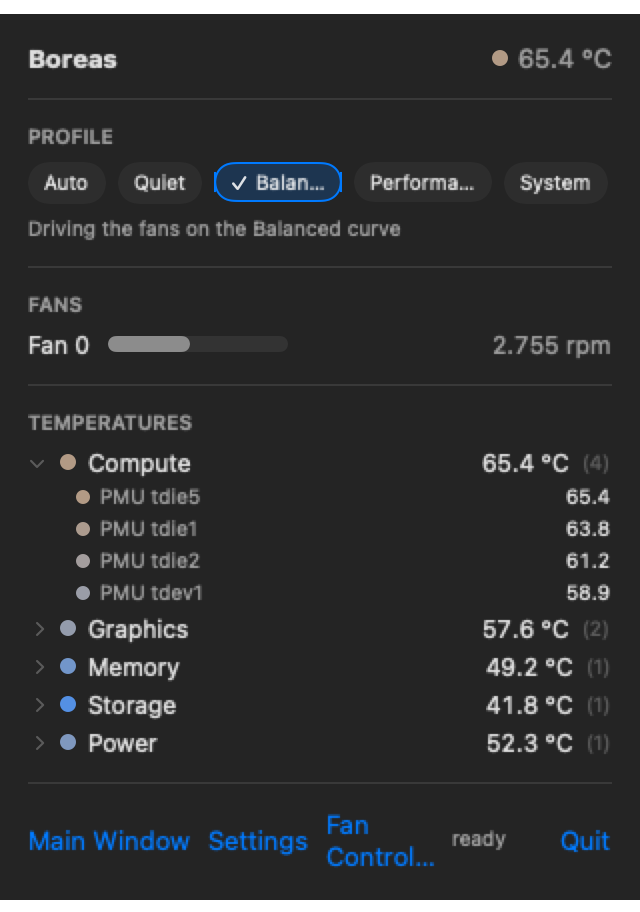
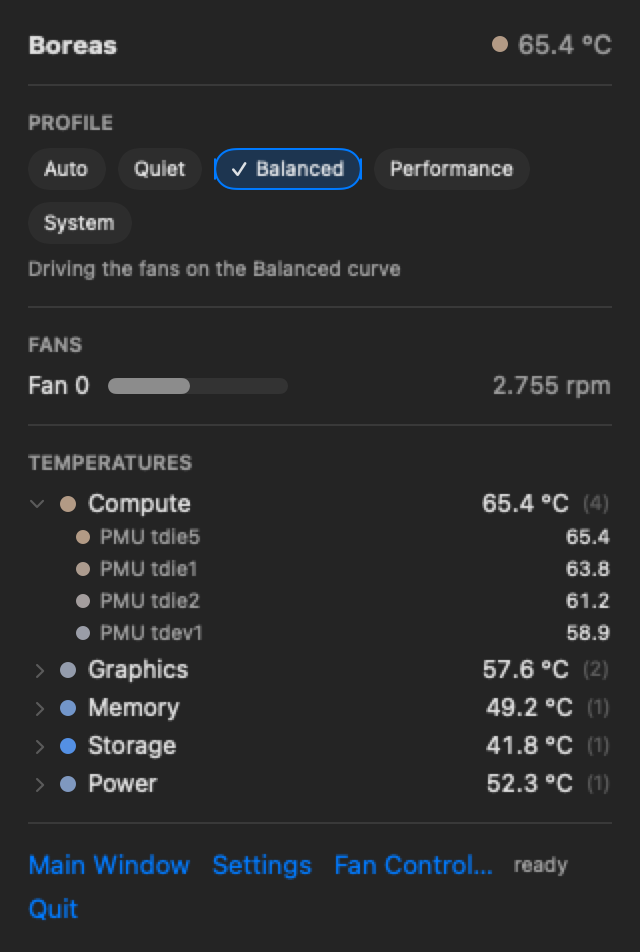
fix(ui): the panel wraps its chips instead of truncating them (P8.10)
Five profile chips do not fit across the panel's 292 pt of content width,
so an HStack resolved the overflow the one way this project forbids:
"Balan...", "Performa...", in English, before any of the longer languages
got a turn. The rule states itself absolutely in localization.md -
"Except for the menu bar item, overflow is never solved by truncation" -
and the panel is not the menu bar item, it is the window under it.

The remedy was in the rule's own sentence: labels grow with their content
and WRAP when needed. A new FlowLayout gives the picker a second line.
Widening the panel was rejected because Russian runs 30-50% longer and
would break at the new width; a dropdown would cost the one-click
switching the picker exists for.

The footer got the same treatment for a related but different defect: it
was not truncating at all - the ellipsis in "Fan Control..." is the macOS
convention for "opens a dialog" - it was breaking the phrase across two
lines mid-label. Quit lost its right-hand Spacer(), which a flow layout
cannot honour.

make layout now measures the chips against MenuBarPanel.contentWidth
rather than a copied literal. It would not have caught the original
defect, because that failure mode is designed out rather than detected; it
catches the one that survives, a single chip wider than its line.

The finding worth keeping: a derived inventory is not a complete one.
make layout builds every entry from the view's own declaration so nothing
[…]

diff --git a/App/Sources/Design/FlowLayout.swift b/App/Sources/Design/FlowLayout.swift
@@ -1,0 +1,82 @@
+import SwiftUI
+
+/// Lays subviews out in a row, wrapping to the next line when the next one
+/// would not fit (P8.10).
+///
+/// **Why this exists.** The menu bar panel's profile picker was an `HStack` of
+/// five chips inside a 320 pt panel, and they did not fit: SwiftUI resolved the
+/// overflow by truncating the labels, so the shipped panel read `Balan…` and
+/// `Performa…` in English and worse in the longer languages. That contradicts
+/// the rule this project states absolutely in
+/// `docs/development/localization.md` — *"Except for the menu bar item,
+/// overflow is never solved by truncation"* — and the panel is not the menu bar
+/// item, it is the window under it.
+///
+/// The rule's own sentence names the remedy: labels "grow with their content
+/// and **wrap** when needed". Widening the panel would only move the failure to
+/// the next language, since Russian runs 30–50% longer than English; a dropdown
+/// would cost the one-click switching the picker exists for.
+///
+/// A subview wider than the whole line still cannot fit, and this layout does
+/// not pretend otherwise — it gives it a line of its own and lets it be as wide
+/// as it is. `--layout-drill` is what asserts that no chip ever gets there.
+struct FlowLayout: Layout {
+
+    var spacing: CGFloat = 6
+    var lineSpacing: CGFloat = 6
+
+    func sizeThatFits(
+        proposal: ProposedViewSize, subviews: Subviews, cache: inout Void
+    ) -> CGSize {
+        let limit = proposal.width ?? .infinity
+        let lines = arrange(subviews: subviews, limit: limit)
+        let width = lines.map(\.width).max() ?? 0
+        let height =
+            lines.map(\.height).reduce(0, +)
+            + lineSpacing * CGFloat(max(0, lines.count - 1))
+        return CGSize(width: min(width, limit == .infinity ? width : limit), height: height)
+    }
+
+    func placeSubviews(
+        in bounds: CGRect, proposal: ProposedViewSize, subviews: Subviews, cache: inout Void
+    ) {
+        let lines = arrange(subviews: subviews, limit: bounds.width)
+        var top = bounds.minY
+        for line in lines {
+            var leading = bounds.minX
+            for index in line.indices {
+                let size = subviews[index].sizeThatFits(.unspecified)
+                subviews[index].place(
+                    at: CGPoint(x: leading, y: top + (line.height - size.height) / 2),
+                    proposal: ProposedViewSize(size))
+                leading += size.width + spacing
+            }
+            top += line.height + lineSpacing
+        }
+    }
+
+    private struct Line {
+        var indices: [Int] = []
+        var width: CGFloat = 0
+        var height: CGFloat = 0
+    }
+
+    private func arrange(subviews: Subviews, limit: CGFloat) -> [Line] {
+        var lines: [Line] = []
+        var current = Line()
+        for index in subviews.indices {
+            let size = subviews[index].sizeThatFits(.unspecified)
+            let needed = current.indices.isEmpty ? size.width : current.width + spacing + size.width
+            if !current.indices.isEmpty && needed > limit {
+                lines.append(current)
+                current = Line()
+            }
+            current.width =
+                current.indices.isEmpty ? size.width : current.width + spacing + size.width
+            current.height = max(current.height, size.height)
+            current.indices.append(index)
+        }
+        if !current.indices.isEmpty { lines.append(current) }
+        return lines
+    }
+}

diff --git a/App/Sources/Helper/LayoutDrill.swift b/App/Sources/Helper/LayoutDrill.swift
@@ -161,6 +161,9 @@ enum LayoutDrill {
         // than being guessed — P6.12 measured these at 10 pt and 13 pt.
         let caption = NSFont.systemFont(ofSize: NSFont.smallSystemFontSize, weight: .semibold)
         let callout = NSFont.preferredFont(forTextStyle: .body)
+        // The chips declare `.font(.caption)` — regular, not the semibold
+        // the table headers use.
+        let chipFont = NSFont.systemFont(ofSize: NSFont.smallSystemFontSize)
 
         var containers: [Container] = []
 
@@ -180,6 +183,33 @@ enum LayoutDrill {
                 strings: SensorGroup.allCases.map { localised($0.localizationKey, in: bundle) },
                 available: SensorTable.width(of: .group),
                 font: callout))
+
+        // The menu bar panel's profile chips (P8.10).
+        //
+        // Not a fixed-width container in the sense above — the chips wrap now,
+        // so a row can never clip. What *can* still clip is a single chip whose
+        // own label is wider than the line it gets, and that is what this
+        // measures: every profile name plus the padding the chip draws around
+        // it, against the panel's real content width.
+        //
+        // This is the check whose absence let the defect ship. `make layout`
+        // was green the whole time the panel was truncating, because its
+        // inventory was the two tables and nothing else.
+        let chipStrings =
+            [
+                "panel.profile.automatic", "profile.quiet", "profile.balanced",
+                "profile.performance", "profile.system",
+            ]
+            .map { localised($0, in: bundle) }
+        containers.append(
+            Container(
+                place: "menu bar panel profile chip",
+                strings: chipStrings,
+                // The chip's own horizontal padding (8 + 8) and the checkmark
+                // it shows when selected (8 pt glyph + 3 pt spacing) come out
+                // of the line before the label does.
+                available: MenuBarPanel.contentWidth - 16 - 11,
+                font: chipFont))
 
         // The numeric curve table's two columns (P6.07).
         containers.append(

diff --git a/App/Sources/MenuBar/MenuBarPanel.swift b/App/Sources/MenuBar/MenuBarPanel.swift
@@ -62,9 +62,18 @@ struct MenuBarPanel: View {
             Divider()
             footer
         }
-        .padding(14)
-        .frame(width: 320)
+        .padding(Self.padding)
+        .frame(width: Self.width)
     }
+
+    /// The panel's fixed geometry, exposed so `--layout-drill` measures the
+    /// real numbers instead of a second copy that could drift (P8.10) — the
+    /// same reason `SensorTable.width(of:)` is not a literal in the drill.
+    static let width: CGFloat = 320
+    static let padding: CGFloat = 14
+
+    /// What is actually available to a row inside the panel.
+    static var contentWidth: CGFloat { width - padding * 2 }
 
     private var header: some View {
         HStack {
@@ -94,7 +103,16 @@ struct MenuBarPanel: View {
     }
 
     private var footer: some View {
-        HStack {
+        // Wrapping, for the same reason the profile picker does (P8.10). Four
+        // entries plus a status word do not fit across 292 pt, and an `HStack`
+        // broke "Fan Control…" across two lines mid-phrase. Wrapping moves the
+        // whole button to the next line instead of splitting its label.
+        //
+        // `Spacer()` cannot survive that — a flow layout has no single row to
+        // push against — so `Quit` is simply the last entry rather than being
+        // pinned right. A footer that reads left to right in one order is a
+        // fair trade for one that never breaks a word in half.
+        FlowLayout(spacing: 10, lineSpacing: 6) {
             Button {
                 openWindow(id: MainWindow.windowID)
                 // An LSUIElement app is never frontmost on its own; without
@@ -154,8 +172,6 @@ struct MenuBarPanel: View {
                         .foregroundStyle(.secondary)
                 }
             }
-
-            Spacer()
 
             Button {
                 NSApplication.shared.terminate(nil)

diff --git a/App/Sources/MenuBar/PanelSections.swift b/App/Sources/MenuBar/PanelSections.swift
@@ -33,7 +33,11 @@ struct ProfilePickerSection: View {
                 )
             )
 
-            HStack(spacing: 6) {
+            // Wrapping, not a row (P8.10). Five chips do not fit across 292 pt
+            // of panel, and an `HStack` resolved that by truncating the labels
+            // to `Balan…` and `Performa…` — in English, before any of the
+            // longer languages got a turn.
+            FlowLayout(spacing: 6, lineSpacing: 6) {
                 // "Automatic" first, because it is the state that lets the
                 // triggers decide — and without it a manual choice would
                 // be a permanent veto on every one of them (P6.14).

diff --git a/TODO.md b/TODO.md
@@ -383,7 +383,7 @@ up by it.
 - [ ] **P8.03 — DMG build.** SHA-256 published. ⛔ M03
 - [ ] **P8.04 — CI release job.** Triggered by a tag. ⛔ M03 M04
 - [x] **P8.05 — Product `README.md` (English).** Icon source ready: `Design/icon/`. Per `docs/release/readme-spec.md`; **an honest "Tested hardware" section**.
-- [ ] **P8.10 — The menu bar panel truncates profile names with an ellipsis.** Found in P8.05 while rendering the README screenshots. The panel is **320 pt** wide and the profile picker holds five chips — Auto, Quiet, Balanced, Performance, System — which do not fit: in English they render as `Balan…` and `Performa…`, and the footer's fan-control entry wraps and truncates too. This contradicts a rule the project states absolutely in [`docs/development/localization.md`](docs/development/localization.md): *"Except for the menu bar item, overflow is never solved by truncation."* The panel is not the menu bar item; it is the window below it. **`make layout` cannot see this** — its inventory is the sensor table's and the curve table's fixed-width columns, derived from those views' own declarations, and the picker is not among them. Confirmed to be the width and not the language: the same picker in the main window's control tab, which is wide, shows every name in full. Fix is a layout question (wrap the chips, use a menu, or shorten the set) plus extending the layout drill's inventory so the picker is measured; the README screenshot ships showing the truncation until then, because a staged screenshot would be the dishonest option.
+- [x] **P8.10 — The menu bar panel truncates profile names with an ellipsis.** Found in P8.05 while rendering the README screenshots. The panel is **320 pt** wide and the profile picker holds five chips — Auto, Quiet, Balanced, Performance, System — which do not fit: in English they render as `Balan…` and `Performa…`, and the footer's fan-control entry wraps and truncates too. This contradicts a rule the project states absolutely in [`docs/development/localization.md`](docs/development/localization.md): *"Except for the menu bar item, overflow is never solved by truncation."* The panel is not the menu bar item; it is the window below it. **`make layout` cannot see this** — its inventory is the sensor table's and the curve table's fixed-width columns, derived from those views' own declarations, and the picker is not among them. Confirmed to be the width and not the language: the same picker in the main window's control tab, which is wide, shows every name in full. Fix is a layout question (wrap the chips, use a menu, or shorten the set) plus extending the layout drill's inventory so the picker is measured; the README screenshot ships showing the truncation until then, because a staged screenshot would be the dishonest option.
 - [ ] **P8.06 — README translations.** `tr`, `ru`, `es`, `zh-Hans` + a "may lag behind" note.
 - [ ] **P8.07 — Discoverability setup.** Repository description, topics, Homebrew cask `desc`, README FAQ.
 - [ ] **P8.08 — Homebrew cask.** Submission (depends on M05). ⛔ M05
@@ -565,6 +565,8 @@ Append-only. History is **never rewritten**; a wrong entry is corrected by a new
 | 2026-08-10 | setup | P7.13 | DONE | **H6 could only see one of the five languages, and had not been able to see the other three since the day they shipped.** `gate-language` scanned for Turkish letters and Turkish function words and nothing else, so from P7.06 onward Russian and Chinese could appear anywhere in the repository and the gate stayed green. The gap surfaced in P7.07 as something smaller: `TRANSLATORS.md` sat in the gate's exclusion regex while being **invisible to it either way** — an exemption that did nothing, granted for a risk the gate could not detect. **The decision this needed was not technical.** Adding the missing detection turns the gate red on six files that are not violations: three Swift comments recording the label widths `make layout` measured, the Run Log naming strings a render exposed, the localisation document showing a plural form, and the P7.14 tests whose entire subject is that a translated status line changes nothing about a parsed token. An [ADR 0021 addendum](docs/architecture/adr/0021-english-only-repository.md) answers it: **quoting a translation as evidence is not an exception to H6, it is what H6 already meant** — the invariant forbids *working in* another language, and a comment in English naming the Russian string that overflowed a column is working in English *about* Russian. Deleting the string would delete the evidence; a defect recorded without the text that showed it is not a record. **The mechanism is the repository's own proven one:** a file declares its own exemption with a `gate-language:quotes-translations` marker and a reason, and the count of skipped files is printed on **every** run — the `gate-names:policy-doc` shape, chosen for the reason `LEGAL.md` §5.1 already gives, that a hard-coded list goes stale while a declaration is visible in review. Written in Python because a `grep` bracket range is matched **byte-wise** under the C locale and swallows the em dash this repository uses on nearly every line; the first attempt in P7.07 called all 276 files violations. | **Proven three ways by deliberate violation**: Russian prose planted in `MonitorModel.swift` is caught and named with its file, line and text; Chinese prose is caught; and the **same Chinese text with the marker passes while the exempt count rises 7 → 8**, so the exemption is visible rather than silent. All three reverted · the new rule was run against the repository first and named exactly the six evidence files, no false positives beyond them · `make check` 11/11 · `make test` 331/331 · `make lint` PASS · `docs-check` PASS with the new ADR addendum | `scripts/gates/check-language.py` (new) · `scripts/gates/check-language.sh` · `docs/architecture/adr/0021-english-only-repository.md` (P7.13 addendum) · `docs/development/localization.md` (coverage table) · `BOOT.md` · six files given the marker · `TODO.md` | **Spanish is not covered and cannot be.** It shares the Latin alphabet, so no character check can tell Spanish prose from English — H6 now covers four of five languages, and the fifth is stated as uncovered in the ADR, in `localization.md` and here rather than left to be discovered a third time. **Turkish coverage is still partial**: six letters and nine function words, so a Turkish sentence avoiding all of them passes. **A marker exempts a whole file, not a passage** — the same coarseness `gate-names:policy-doc` accepts, mitigated only by being counted and reviewed; a marked file could later gain genuine non-English prose and the gate would not object | Next: P7 acceptance criteria |
 
 | 2026-08-11 | setup | P8.05 | DONE | **The README was six sections short of its own specification and had been lying about the product since P3.** Its status banner still read "the monitoring half works, fan control is being built" — untrue since P4 — and the roadmap showed the privileged helper as in progress with the safety chain as next, four phases behind. Rewritten against all 21 sections of [`readme-spec.md`](docs/release/readme-spec.md); the six that were simply absent are **Installation, Quick start, Configuration, CLI usage, Uninstall and screenshots**. **The honest problem this task had to solve is that there is nothing to install.** The Homebrew cask is P8.08 and the DMG is P8.03, both waiting on manual work, so an installation section could either invent a `brew install` line that fails or say what is true. It says what is true: no release yet, build from source, and monitoring works unsigned while fan control needs a Developer ID because macOS will not register an unsigned helper. **Screenshots are renders, not photographs**, and that is the safer choice rather than a compromise: the render fixtures carry no machine name, no account name and nobody's real sensor values, which is the same allowlist reasoning as P7.05 and P7.09. Rendered under `-AppleLanguages '(en)'` because the developer's machine is not English and the English README needs English pictures. **Two false claims caught before they shipped, both by checking rather than by reading.** The configuration sample was written from memory and **would not have loaded**: the real shape nests the curve inside `binding` with an `input` block, and calls the field `hysteresis`, not `hysteresisCelsius` — it is now copied from a real `boreas export` and parsed to prove it. And the uninstall section claimed the removal path "is exercised in the test suite on every run", which is **the opposite of true**: `cli-test` documents that it deliberately never runs `install` or `uninstall`, because they change the helper's registration and prompt for a password. Corrected to say it was verified once, by hand, from five angles — and that it is not re-checked automatically. | `make check` **11/11 PASS**, including `gate-names` over a document full of marketing-adjacent prose and `docs-check` over its links · **the JSON sample parsed with `json.loads` after being copied from a live `boreas export`** — the previous hand-written one is confirmed wrong against the real profile shape · every one of the 21 specified sections present and in order, verified against the spec table · screenshots rendered in English at the panel's real 320 pt width and inspected · `git status` clean, CI green | `README.md` (rewritten) · `docs/images/{panel-light,panel-dark,curve-editor}.png` (new, 560 KB) · `docs/development/repo-structure.md` · `TODO.md` (P8.10 filed) | **The README ships a screenshot of a defect.** The panel's profile picker truncates to `Balan…` and `Performa…` at 320 pt, which contradicts the project's own "overflow is never solved by truncation" rule and which `make layout` cannot see, because the picker is not in its inventory. Filed as **P8.10**; the screenshot was not restaged, because a picture chosen to hide a defect is the dishonest option. **Nothing in Installation can be verified** until M03 provides a signing identity — the build-from-source path is the one the developer uses daily, but "download and run" has never been tested by anybody. Screenshots are fixture renders and will drift from the interface silently; nothing regenerates them. The section order follows the spec except that the curve editor's screenshot sits in its own section beside the feature it shows rather than in a single screenshot block | Next: P8.06 |
+
+| 2026-08-11 | setup | P8.10 | DONE | **The panel had been truncating its own profile names for five phases, and `make layout` was green the whole time.** Five chips do not fit across the panel's 292 pt of content, so an `HStack` resolved the overflow the one way the project forbids: `Balan…`, `Performa…`, in English, before any of the longer languages got a turn. The rule it broke states itself absolutely in `localization.md` — *"Except for the menu bar item, overflow is never solved by truncation"* — and the panel is not the menu bar item, it is the window under it. **The remedy was in the rule's own sentence:** labels "grow with their content and **wrap** when needed". A new `FlowLayout` gives the picker a second line; the panel grows downwards, which a menu bar panel can afford. Widening the panel was rejected because Russian runs 30–50% longer and would simply break at the new width; a dropdown was rejected because it costs the one-click switching the picker exists for. The footer got the same treatment for a related but **different** defect, and the distinction is worth recording: it was not truncating at all — the `…` in `Fan Control…` is the macOS convention for "opens a dialog", part of the string — it was breaking the phrase across two lines mid-label. Flowing it moves whole buttons instead. `Quit` lost its right-hand `Spacer()`, which a flow layout cannot honour, and that is a real if small cost. **The check that was missing now exists**, though it is honest about what it can do: with wrapping, a row can no longer clip at all, so the assertion is that **no single chip is wider than the line it would get** — measured against `MenuBarPanel.contentWidth` rather than a copied literal, in every shipped language. It would not have caught the original defect, because the original failure mode has been designed out rather than detected; it catches the one that survives. | **Fix proven by render, in the language most likely to break it:** Russian now shows `Сбалансированный` and `Производительность` in full across two wrapped lines, and the footer wraps whole buttons — no ellipsis anywhere, light and dark · **the new drill check proven by deliberate violation** — narrowing `MenuBarPanel.width` to 150 pt turns `make layout` red and names the offenders with their numbers (`"Производительность" needs 161.8 pt of 95.0 at 1.40×`), reverted · `make layout` PASS in all five languages after the fix · `make check` 11/11 · `make test` 331/331 · `make lint` PASS, after it caught a one-character variable name in the new layout · README screenshots regenerated, since the ones committed an hour earlier showed the defect | `App/Sources/Design/FlowLayout.swift` (new) · `App/Sources/MenuBar/PanelSections.swift` · `App/Sources/MenuBar/MenuBarPanel.swift` (geometry exposed for measurement) · `App/Sources/Helper/LayoutDrill.swift` (chips added to the inventory) · `docs/images/*` (regenerated) · `docs/development/localization.md` · `docs/product/ui.md` · `TODO.md` | **A derived inventory is not a complete one, and this is the proof.** `make layout` builds every entry from the view's own declaration so nothing goes stale — and it was green for five phases while the panel truncated, because the picker was never added. Deriving each entry says nothing about the entries nobody wrote. It was found by looking at a screenshot, not by a check, and the same could be true of any surface not in the list today. **`Quit` is no longer right-aligned** in the footer. **The wrapped panel is taller**, which is fine at five profiles and would not be at fifteen — a user-created profile adds a chip, and nothing caps how many lines the picker may take | Next: P8.06 |
 
 ### Run log entry template
 

diff --git a/docs/development/localization.md b/docs/development/localization.md
@@ -3,7 +3,7 @@
 
 # Localisation
 
-> Last updated: 2026-08-10 — P7.13
+> Last updated: 2026-08-11 — P8.10
 > Source: blueprint §9.7 · Decision: [ADR 0016](../architecture/adr/0016-language-scope.md)
 
 ## Scope
@@ -84,6 +84,12 @@ Russian strings can run **30–50% longer** than English; Chinese is markedly sh
 
 > **There is no text container with a fixed pixel width or height.** All labels grow with their content and wrap when needed. Except for the menu bar item, overflow is never solved by truncation (`…`).
 
+**Wrapping needs somewhere to wrap to.** An `HStack` of five chips in a 320 pt
+panel has no second line to use, so SwiftUI truncates instead — which is how the
+panel broke the rule while every fixed-width container passed. `FlowLayout`
+(P8.10) gives the picker and the footer that second line; the panel grows
+downwards, which a menu bar panel can afford and a row of labels cannot.
+
 CI checks this with a **pseudo-locale** (artificially lengthened strings) layout test.
 
 ### Implementation (P6.13) — and the rule as it is actually enforced
@@ -112,9 +118,17 @@ The flag is still used, for *renders a human looks at*: `LAYOUT_RENDER_DIR=<dir>
 writes the doubled interface in both languages.
 
 **The inventory of containers derives from the views' own declarations** —
-`SensorColumn.allCases` with `SensorTable.width(of:)`, and
-`CurvePointTable.temperatureColumnWidth` — so a column that is resized or renamed
-is re-measured without anybody remembering to update a list. The `localizationKey`
+`SensorColumn.allCases` with `SensorTable.width(of:)`,
+`CurvePointTable.temperatureColumnWidth`, and since P8.10 the menu bar panel's
+profile chips against `MenuBarPanel.contentWidth` — so a container that is
+resized or renamed is re-measured without anybody remembering to update a list.
+
+> **The inventory being derived does not make it complete, and P8.10 is the
+> proof.** `make layout` was green for five phases while the panel truncated its
+> profile names to `Balan…` and `Performa…`, because the picker was not in the
+> inventory at all — deriving each entry from its view says nothing about the
+> entries nobody added. It was found by looking at a screenshot for the README,
+> not by a check. The `localizationKey`
 those columns expose is derived from `rawValue` rather than written twice, and the
 drill checks the derivation still resolves to what the view shows, because a
 renamed key would otherwise make it measure the key text and pass.

diff --git a/docs/product/ui.md b/docs/product/ui.md
@@ -60,6 +60,16 @@ The product's signature interface.
 
 **Implementation (P6.06, P6.07):** the monotonicity constraint is enforced by **clamping the input**, not by validating the result — the editing operations in [`Core/Engine/CurveEditing.swift`](../../Packages/Core/Sources/Core/Engine/CurveEditing.swift) are total, so an invalid curve is unrepresentable rather than merely rejected, and 10 000 hostile edits are thrown at them in the tests. The plot ([`CurveEditor.swift`](../../App/Sources/Window/CurveEditor.swift)) contributes the gesture and nothing else. The numeric table ([`CurvePointTable.swift`](../../App/Sources/Window/CurvePointTable.swift)) edits the same curve through the same operations, so the two entry points cannot disagree about what is legal. Edits reach the running engine within one cycle (`ControlModel.updateActiveProfile`) and, since P6.08, are written to the configuration file. Proven on hardware by `--curve-drill`.
 
+**Implementation (P8.10):** the panel's profile picker and footer lay out with
+[`FlowLayout`](../../App/Sources/Design/FlowLayout.swift) rather than an
+`HStack`. Five chips do not fit across the panel's 292 pt of content width, and
+an `HStack` resolved that by **truncating** the labels — `Balan…`,
+`Performa…` — which the localisation rule forbids everywhere except the menu bar
+item itself. Wrapping is what that rule already prescribes; the panel grows
+downwards instead. Russian, the longest language, now shows every profile name
+in full across two lines. `Quit` lost its right-hand `Spacer()` in the footer,
+because a flow layout has no single row to push against.
+
 ## Settings
 
 Tabs: **General · Appearance · Sensors · Control · Notifications · Recording · Advanced**
